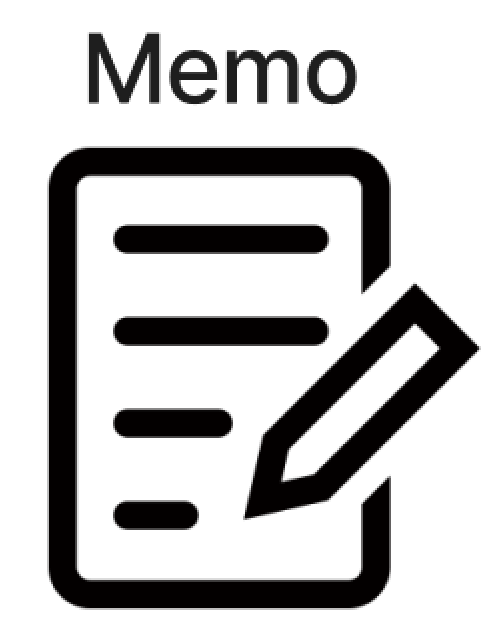
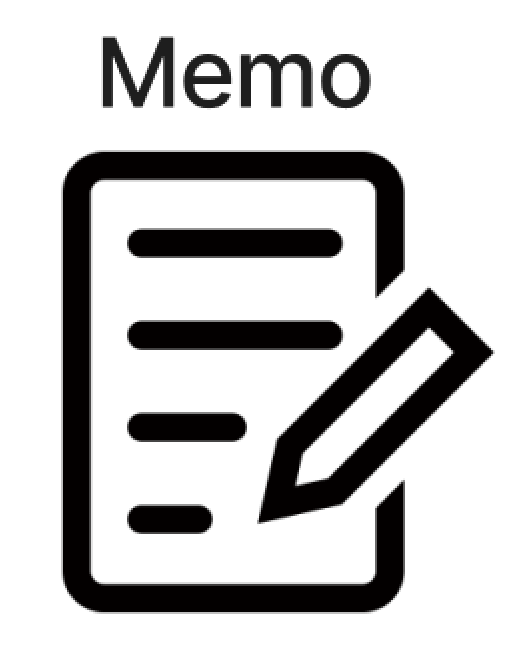
top50%

diff --git a/src/main/resources/static/js/top.js b/src/main/resources/static/js/top.js
@@ -1,0 +1,83 @@
+'use strict'
+
+        function createCalendar(year, month) {
+            const start = new Date(year, month, 1);     // 月初
+            const last = new Date(year, month + 1, 0);  // 月末
+            const startDate = start.getDate();          // 月初
+            const lastDate = last.getDate();            // 月末
+            const startDay = start.getDay();            // 月初の曜日
+            const lastDay = last.getDay();              // 月末の曜日
+
+            let days = [];
+            let weekDay = [];
+            let dayCount = 0; // 曜日カウント用
+            for (let i = startDate; i <= lastDate; i++) {
+                if (i === startDate) {
+                    for (let j = 0; j < startDay; j++) {
+                        weekDay.push('');
+                        dayCount++;
+                    }
+                }
+                weekDay.push(i);
+                dayCount++;
+                if (dayCount === 7) {
+                    days.push(weekDay);
+                    dayCount = 0;
+                    weekDay = [];
+                }
+            }
+            for (let i = lastDay; i < 6; i++) {
+                weekDay.push('');
+            }
+            days.push(weekDay);
+
+            let cal = `<tr>
+                <th class="weekend"><h2>日</h2></th>
+                <th class="weekday"><h2>月</h2></th>
+                <th class="weekday"><h2>火</h2></th>
+                <th class="weekday"><h2>水</h2></th>
+                <th class="weekday"><h2>木</h2></th>
+                <th class="weekday"><h2>金</h2></th>
+                <th class="weekday"><h2>土</h2></th>
+            </tr>`;
+            for (const week of days) {
+                cal += '<tr>';
+                for (const day of week) {
+                    cal += '<td class="weekday" onclick="openDate(this)"><h3>' + day + '</h3></td>';
+                }
+                cal += '</tr>';
+            }
+            document.getElementById('cal').innerHTML = cal;
+            document.getElementById('year').textContent = year;
+            document.getElementById('month').textContent = month + 1;
+
+        }
+
+        document.getElementById('last-month').addEventListener('click', e => {
+            e.preventDefault();
+            let year = Number(document.getElementById('year').textContent);
+            let month = Number(document.getElementById('month').textContent);
+            year = month === 1 ? year - 1 : year;
+            month = month === 1 ? 12 : month - 1;
+            createCalendar(year, month - 1);
+        });
+
+        document.getElementById('next-month').addEventListener('click', e => {
+            e.preventDefault();
+            let year = Number(document.getElementById('year').textContent);
+            let month = Number(document.getElementById('month').textContent);
+            year = month === 12 ? year + 1 : year;
+            month = month === 12 ? 1 : month + 1;
+            createCalendar(year, month - 1);
+        });
+
+        const today = new Date(); // 現在の日時
+        createCalendar(today.getFullYear(), today.getMonth());
+
+        function openDate(day){
+            const year = document.getElementById('year').textContent;
+            const month = document.getElementById('month').textContent;
+            const date = day.textContent;
+            console.log(`/calendar/${year}-${month}-${date}`);
+            // location.href = `/calendar/${year}-${month}-${date}`;
+        }

diff --git a/src/main/resources/templates/top.html b/src/main/resources/templates/top.html
@@ -2,32 +2,52 @@
 <html lang="ja" xmlns:th="http://www.thymeleaf.org">
 
 <head>
-    <title>css header</title>
+    <title>TOP画面</title>
     <link href="/css/commons.css" rel="stylesheet">
+    <link href="/css/top.css" rel="stylesheet">
 
 </head>
 
 <body>
    <th:block th:insert="/common/header"></th:block>
-   <div class="content">
+   <div class="content flex">
         <div>
-            <p>レベル1</p>
-            <p>++++++++++++</p>
-            <div>
-                <p>実施中ダイエット</p>
-                <p>豆腐ダイエット：2023/06/16 ～ 2023/06/30</p>
+            <div class="user-info">
+                <h3>Lv.100</h3>
+                <p>++++++++++++</p>
+                <div>
+                    <h3>実施中ダイエット</h3>
+                    <p>豆腐ダイエット：2023/06/16 ～ 2023/06/30</p>
+                </div>
             </div>
-        </div>
+            <br>
+           <div class="flex">
+               <div>
+                   <div>
+                       <h3>
+                           <a href="#" id="last-month"><b>&lt;</b></a>
+                           <a href="#" id="next-month"><b>&gt;</b></a>
+                           <span id="year"></span>年<span id="month"></span>月
+                       </h3>
+                   </div>
 
+                   <table id="cal" class="calendar">
+
+                   </table>
+               </div>
+               <a href="/memo"><img src="/images/memo.png" id="memo"></a>
+           </div>
+        </div>
        <div>
-           <p>calendar</p>
-           <img src="/images/memo.png">
+           <div class="speak">
+               <p>ヤー！</p>
+           </div>
        </div>
-       <div>
-           <img src="/images/top.png">
-       </div>
+<!--       <img src="/images/top.png" id="main">-->
    </div>
+   <br>
    <th:block th:insert="/common/footer"></th:block>
+<script src="/js/top.js"></script>
 </body>
 
 </html>

diff --git a/src/main/resources/static/css/top.css b/src/main/resources/static/css/top.css
@@ -1,0 +1,112 @@
+.flex {
+    display: flex;
+    justify-content: space-between;
+}
+
+#memo{
+    max-width:100%;
+    width:100px;
+    height:100px;
+}
+
+#main{
+    max-width:100%;
+    width:300px;
+    height:300px;
+}
+.speak{
+    border: 1px solid #000000;
+    background-color:orange;
+    font-size:50px;
+    padding: 10px;
+    border-radius:30px;
+}
+
+.user-info{
+    text-align:center;
+    border: 1px solid orange;
+    background-color:darkorange;
+    border-radius:10px;
+  }
+
+
+
+
+table.calendar {
+    margin: auto;
+    position: relative;
+    margin-bottom: 30px;
+  }
+  
+  table.calendar, table.calendar th, table.calendar td {
+    border: solid 1px #000000;
+  }
+  
+  table.calendar td {
+    position: relative;
+    width: 50px;
+    height: 50px;
+  }
+  
+  table.calendar th {
+    height: 30px;
+  }
+  
+  table.calendar th.title {
+    height: 30px;
+    background-color: #ffffff;
+  }
+  
+  table.calendar th.weekend {
+    background-color: #ffb6c1;
+  }
+  
+  table.calendar th.weekday {
+    background-color: #98fb98
+  }
+  
+  table.calendar h3 {
+    position: absolute;
+    top: 0px;
+    height: 30px;
+    margin: 0px;
+  }
+  
+  table.calendar td.weekend {
+    background-color: #fff0f5;
+  }
+  
+  table.calendar td.weekday {
+    background-color: #f0fff0
+  }
+  
+  table.calendar td.today {
+    background-color: #87cefa
+  }
+  
+  table.calendar li {
+    list-style-type: none!important;
+    margin-left: 5px;
+  }
+  
+  table.calendar li a:hover {
+    color: blue;
+  }
+  
+  table.calendar li a {
+    color: black;
+  }
+  
+  .prev, .next {
+    font-size: 24px;
+    text-decoration: none;
+    color: #000000;
+    cursor: pointer;
+  }
+  
+  table.calendar, table.calendar thead th {
+    border: none;
+  }
+  table.calendar tbody th, table.calendar tbody td {
+    border: solid 1px #000000;
+  }

diff --git a/src/main/resources/static/css/commons.css b/src/main/resources/static/css/commons.css
@@ -1,5 +1,5 @@
 .content {
-  margin-top: 200px; /* ヘッダーの高さに合わせて調整 */
+  margin-top: 50px; 
 }
 
 body{
